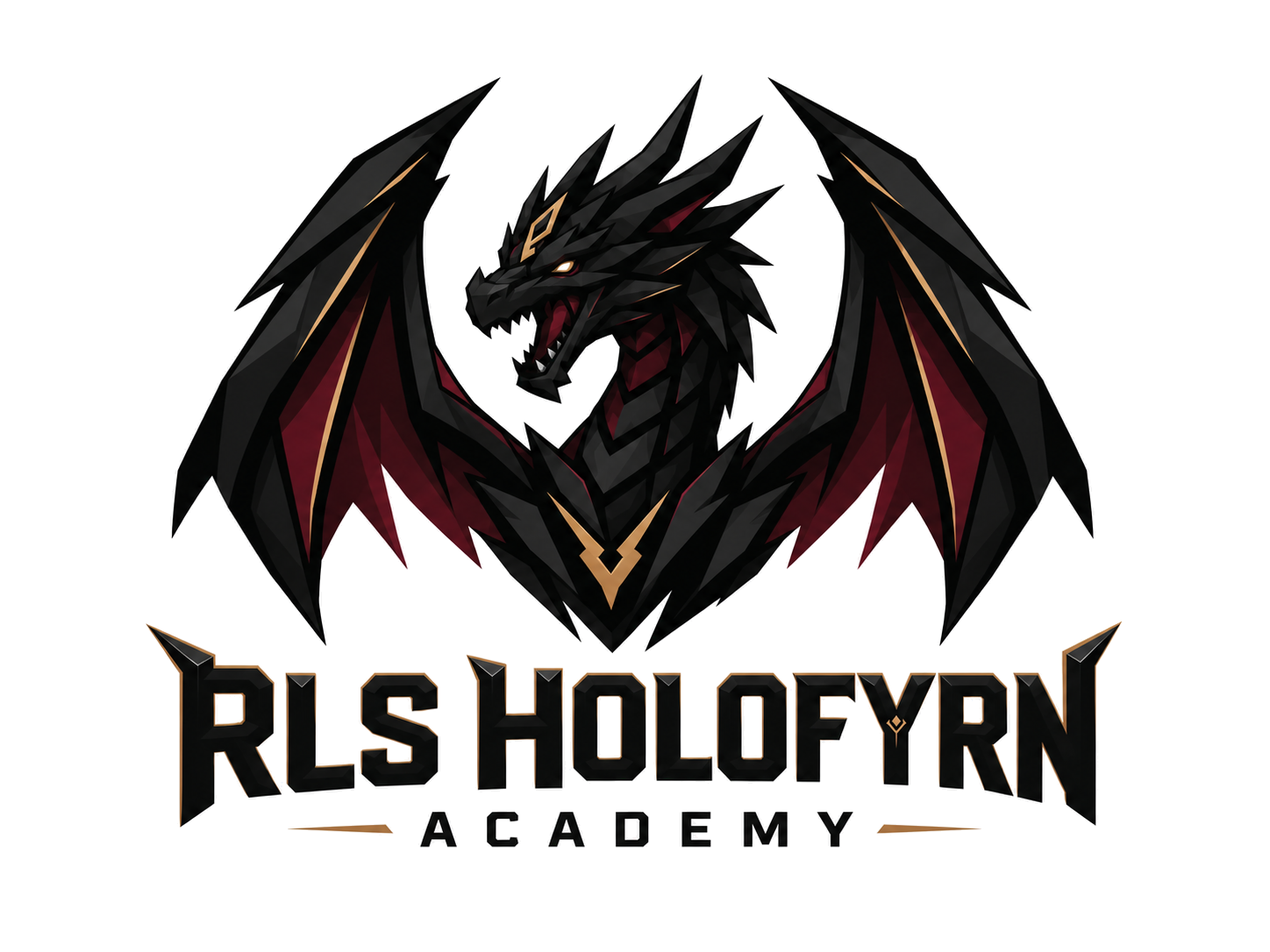
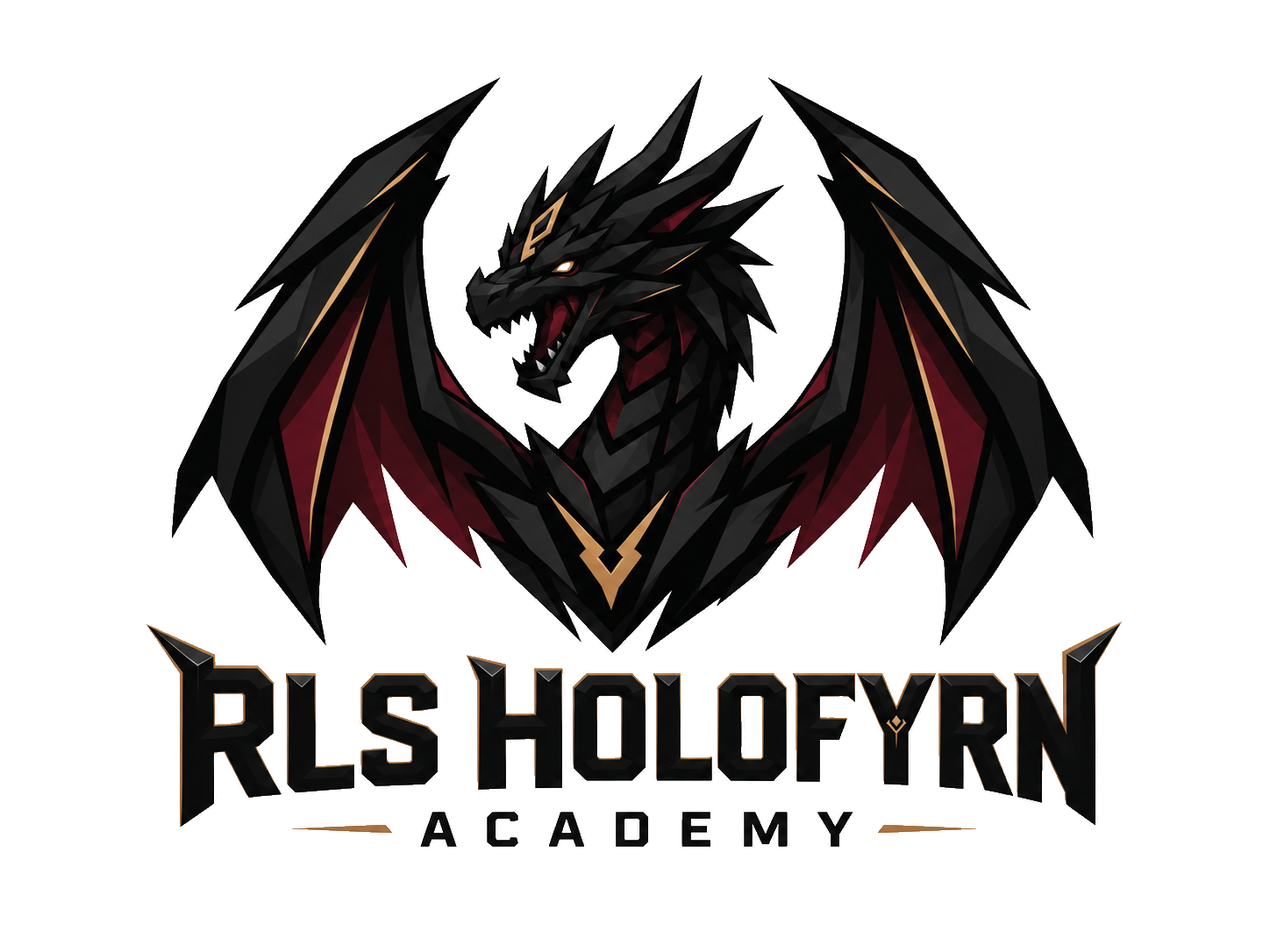
HoloMain16

diff --git a/index.html b/index.html
@@ -2107,23 +2107,26 @@
           <span aria-hidden="true">↗</span></a>
       </div>
       <div class="team-grid"><a class="team-card" style="--team-accent:#e91d39" href="#/teams/holofyrn-esport/">
-          <div class="team-card-center"><img src="assets/HolofyrnMain-transparent.png" alt="" loading="lazy"></div>
+          <div class="team-card-center"><img src="assets/HolofyrnMain-transparent.png?v=20260930-clean" alt="" loading="lazy"></div>
           <h3>HoloFyrn Esports</h3>
         </a><a class="team-card" style="--team-accent:#bd8855" href="#/teams/holofyrn-academy/">
-          <div class="team-card-center"><img src="assets/HolofyrnAcademy-transparent.png" alt="" loading="lazy"></div>
+          <div class="team-card-center"><img src="assets/HolofyrnAcademy-transparent.png?v=20260930-clean" alt="" loading="lazy"></div>
           <h3>HoloFyrn Academy</h3>
         </a><a class="team-card" style="--team-accent:#a71d3c" href="#/teams/rls-holofyrn-esport/">
-          <div class="team-card-center"><img src="assets/RLSHolofyrnMain-transparent.png" alt="" loading="lazy"></div>
+          <div class="team-card-center"><img src="assets/RLSHolofyrnMain-transparent.png?v=20260930-clean" alt="" loading="lazy"></div>
           <h3>RLS HoloFyrn Esports</h3>
         </a><a class="team-card" style="--team-accent:#c29a60" href="#/teams/rls-holofyrn-academy/">
-          <div class="team-card-center"><img src="assets/RLSHoloFyrnAcademy-transparent.png" alt="" loading="lazy"></div>
+          <div class="team-card-center"><img src="assets/RLSHoloFyrnAcademy-transparent.png?v=20260930-clean" alt="" loading="lazy"></div>
           <h3>RLS HoloFyrn Academy</h3>
         </a><a class="team-card" style="--team-accent:#fa7116" href="#/teams/rls-holofyrn-elet/">
-          <div class="team-card-center"><img src="assets/RLSHolofyrnEldr-transparent.png" alt="" loading="lazy"></div>
+          <div class="team-card-center"><img src="assets/RLSHolofyrnEldr-transparent.png?v=20260930-eldr" alt="" loading="lazy"></div>
           <h3>RLS HoloFyrn Eldr</h3>
         </a><a class="team-card" style="--team-accent:#929ba5" href="#/teams/holofyrn-shadows/">
-          <div class="team-card-center"><img src="assets/HoloFyrnShadows-transparent.png" alt="" loading="lazy"></div>
+          <div class="team-card-center"><img src="assets/HoloFyrnShadows-transparent.png?v=20260930-clean" alt="" loading="lazy"></div>
           <h3>HoloFyrn Shadows</h3>
+        </a><a class="team-card" style="--team-accent:#e91d39" href="#/teams/holofyrn-vanguards/">
+          <div class="team-card-center"><img src="assets/HoloFyrnVanguards-transparent.png?v=20260930-clean" alt="" loading="lazy"></div>
+          <h3>Holofyrn Vanguards</h3>
         </a></div>
     </section>
     <section class="section featured-section">
@@ -2178,7 +2181,7 @@
               HoloFyrn</span> <span aria-hidden="true">↗</span></a>
         </div>
         <div class="stats">
-          <div><b>6</b><span><span data-en="TEAMS" data-hu="CSAPAT">TEAMS</span></span></div>
+          <div><b>7</b><span><span data-en="TEAMS" data-hu="CSAPAT">TEAMS</span></span></div>
           <div><b>5</b><span><span data-en="NATIONS REPRESENTING OUR ORG" data-hu="AZ EGYESÜLETBEN KÉPVISELT NEMZETEK">NATIONS REPRESENTING OUR ORG</span></span></div>
           <div><b>4</b><span><span data-en="TOURNAMENTS AND LEAGUES PARTICIPATED IN" data-hu="VERSENYEK ÉS LIGÁK, AMELYEKBEN RÉSZT VETTÜNK">TOURNAMENTS AND LEAGUES PARTICIPATED IN</span></span></div>
         </div>
@@ -2259,8 +2262,8 @@
       <div class="eyebrow"><i></i><span data-en="HOLOFYRN / ABOUT HOLOFYRN" data-hu="HOLOFYRN / A HOLOFYRNRŐL">HOLOFYRN
           / ABOUT HOLOFYRN</span></div>
       <h1><span data-en="About HoloFyrn" data-hu="A HoloFyrnről">About HoloFyrn</span></h1>
-      <p><span data-en="One identity. Six teams. A shared drive to improve."
-          data-hu="Egy identitás. Hat csapat. Közös vágy a fejlődésre.">One identity. Six teams. A shared drive to
+      <p><span data-en="One identity. Seven teams. A shared drive to improve."
+          data-hu="Egy identitás. H?t csapat. Közös vágy a fejlődésre.">One identity. Seven teams. A shared drive to
           improve.</span></p>
     </div>
     <section class="section container page-section about-story">
@@ -2407,23 +2410,26 @@
           <span aria-hidden="true">↗</span></a>
       </div>
       <div class="team-grid"><a class="team-card" style="--team-accent:#e91d39" href="#/teams/holofyrn-esport/">
-          <div class="team-card-center"><img src="assets/HolofyrnMain-transparent.png" alt="" loading="lazy"></div>
+          <div class="team-card-center"><img src="assets/HolofyrnMain-transparent.png?v=20260930-clean" alt="" loading="lazy"></div>
           <h3>HoloFyrn Esports</h3>
         </a><a class="team-card" style="--team-accent:#bd8855" href="#/teams/holofyrn-academy/">
-          <div class="team-card-center"><img src="assets/HolofyrnAcademy-transparent.png" alt="" loading="lazy"></div>
+          <div class="team-card-center"><img src="assets/HolofyrnAcademy-transparent.png?v=20260930-clean" alt="" loading="lazy"></div>
           <h3>HoloFyrn Academy</h3>
         </a><a class="team-card" style="--team-accent:#a71d3c" href="#/teams/rls-holofyrn-esport/">
-          <div class="team-card-center"><img src="assets/RLSHolofyrnMain-transparent.png" alt="" loading="lazy"></div>
+          <div class="team-card-center"><img src="assets/RLSHolofyrnMain-transparent.png?v=20260930-clean" alt="" loading="lazy"></div>
           <h3>RLS HoloFyrn Esports</h3>
         </a><a class="team-card" style="--team-accent:#c29a60" href="#/teams/rls-holofyrn-academy/">
-          <div class="team-card-center"><img src="assets/RLSHoloFyrnAcademy-transparent.png" alt="" loading="lazy"></div>
+          <div class="team-card-center"><img src="assets/RLSHoloFyrnAcademy-transparent.png?v=20260930-clean" alt="" loading="lazy"></div>
           <h3>RLS HoloFyrn Academy</h3>
         </a><a class="team-card" style="--team-accent:#fa7116" href="#/teams/rls-holofyrn-elet/">
-          <div class="team-card-center"><img src="assets/RLSHolofyrnEldr-transparent.png" alt="" loading="lazy"></div>
+          <div class="team-card-center"><img src="assets/RLSHolofyrnEldr-transparent.png?v=20260930-eldr" alt="" loading="lazy"></div>
           <h3>RLS HoloFyrn Eldr</h3>
         </a><a class="team-card" style="--team-accent:#929ba5" href="#/teams/holofyrn-shadows/">
-          <div class="team-card-center"><img src="assets/HoloFyrnShadows-transparent.png" alt="" loading="lazy"></div>
+          <div class="team-card-center"><img src="assets/HoloFyrnShadows-transparent.png?v=20260930-clean" alt="" loading="lazy"></div>
           <h3>HoloFyrn Shadows</h3>
+        </a><a class="team-card" style="--team-accent:#e91d39" href="#/teams/holofyrn-vanguards/">
+          <div class="team-card-center"><img src="assets/HoloFyrnVanguards-transparent.png?v=20260930-clean" alt="" loading="lazy"></div>
+          <h3>Holofyrn Vanguards</h3>
         </a></div>
     </section>
     <section class="section featured-section">
@@ -2478,7 +2484,7 @@
               HoloFyrn</span> <span aria-hidden="true">↗</span></a>
         </div>
         <div class="stats">
-          <div><b>6</b><span><span data-en="TEAMS" data-hu="CSAPAT">TEAMS</span></span></div>
+          <div><b>7</b><span><span data-en="TEAMS" data-hu="CSAPAT">TEAMS</span></span></div>
           <div><b>5</b><span><span data-en="NATIONS REPRESENTING OUR ORG" data-hu="AZ EGYESÜLETBEN KÉPVISELT NEMZETEK">NATIONS REPRESENTING OUR ORG</span></span></div>
           <div><b>4</b><span><span data-en="TOURNAMENTS AND LEAGUES PARTICIPATED IN" data-hu="VERSENYEK ÉS LIGÁK, AMELYEKBEN RÉSZT VETTÜNK">TOURNAMENTS AND LEAGUES PARTICIPATED IN</span></span></div>
         </div>
@@ -2576,7 +2582,7 @@
           <div class="news-body"><span class="pill">ROCKET LEAGUE</span>
             <h3><span data-en="Discover our Rocket League teams"
                 data-hu="Ismerd meg Rocket League csapatainkat">Discover our Rocket League teams</span></h3>
-            <p><span data-en="Six lineups, one shared home." data-hu="Hat csapat, egy közös otthon.">Six lineups, one
+            <p><span data-en="Seven lineups, one shared home." data-hu="H?t csapat, egy közös otthon.">Seven lineups, one
                 shared home.</span></p><span class="card-action"><span data-en="Explore"
                 data-hu="Megtekintés">Explore</span> ↗</span>
           </div>
@@ -2742,7 +2748,7 @@
       <div class="breadcrumbs"><a href="#/staff/"><span data-en="Staff"
             data-hu="Stáb">Staff</span></a><span>/</span>Kenz</div>
       <div class="profile-grid">
-        <div class="profile-photo staff-profile-photo signed-profile-photo"><img src="assets/Kenz.png" alt="Kenz"><img class="profile-signature kenz-signature" src="assets/kenz-signature.png" alt="" aria-hidden="true">
+        <div class="profile-photo staff-profile-photo signed-profile-photo"><img src="assets/KenzStaff.jpg" alt="Kenz"><img class="profile-signature kenz-signature" src="assets/kenz-signature.png" alt="" aria-hidden="true">
         </div>
         <div class="profile-copy">
           <div class="eyebrow"><i></i><span data-en="STAFF PROFILE" data-hu="STÁBPROFIL">STAFF PROFILE</span></div>
@@ -2929,7 +2935,7 @@
     </div>
     <section class="section container page-section">
       <div class="staff-grid"><a class="staff-card" href="#/staff/kenz/"><span class="staff-number">01</span><img
-            class="staff-avatar staff-avatar-photo" src="assets/Kenz.png" alt="Kenz" loading="lazy">
+            class="staff-avatar staff-avatar-photo" src="assets/KenzStaff.jpg" alt="Kenz" loading="lazy">
           <h2>Kenz</h2>
           <p><span data-en="President" data-hu="Elnök">President</span> <span aria-hidden="true">↗</span></p>
         </a><a class="staff-card" href="#/staff/zemsta/"><span class="staff-number">02</span><img
@@ -3062,6 +3068,55 @@
       </div>
     </section>
   </template>
+  <template data-route="/teams/holofyrn-vanguards/" data-title="Holofyrn Vanguards | HoloFyrn Esport">
+    <section class="team-hero">
+      <div class="container">
+        <div class="breadcrumbs"><a href="#/teams/"><span data-en="Teams"
+              data-hu="Csapatok">Teams</span></a><span>/</span>Holofyrn Vanguards</div>
+        <div class="team-hero-content">
+          <div class="eyebrow"><i></i><span data-en="ROCKET LEAGUE" data-hu="ROCKET LEAGUE">ROCKET LEAGUE</span></div>
+          <h1>Holofyrn Vanguards</h1>
+          <p><span data-en="Vanguards roster" data-hu="Vanguards csapat">Vanguards roster</span> · HoloFyrn Esport
+          </p>
+        </div>
+      </div>
+    </section>
+    <section class="section container page-section">
+      <div class="section-heading">
+        <div>
+          <div class="eyebrow"><i></i><span data-en="THE LINEUP" data-hu="A JÁTÉKOSKERET">THE LINEUP</span></div>
+          <h2><span data-en="Players" data-hu="Játékosok">Players</span></h2>
+        </div>
+      </div>
+      <div class="players-grid">
+        <div class="empty-panel"><span>HF / 07</span>
+          <h3><span data-en="Roster announcement coming soon" data-hu="A játékoskeretet hamarosan bejelentjük">Roster
+              announcement coming soon</span></h3>
+          <p><span data-en="Player profiles will appear here once confirmed."
+              data-hu="A játékosprofilok a megerősítés után kerülnek ide.">Player profiles will appear here once
+              confirmed.</span></p>
+        </div>
+      </div>
+    </section>
+    <section class="section container compact-section">
+      <div class="two-column">
+        <div class="info-panel">
+          <div class="eyebrow"><i></i><span data-en="RESULTS" data-hu="EREDMÉNYEK">RESULTS</span></div>
+          <h2><span data-en="Recent results" data-hu="Legutóbbi eredmények">Recent results</span></h2>
+          <p><span data-en="Match results will appear here after the first confirmed fixtures."
+              data-hu="A megerősített mérkőzések eredményei itt lesznek láthatók.">Match results will appear here after
+              the first confirmed fixtures.</span></p>
+        </div>
+        <div class="info-panel">
+          <div class="eyebrow"><i></i><span data-en="ACHIEVEMENTS" data-hu="SIKEREK">ACHIEVEMENTS</span></div>
+          <h2><span data-en="Achievements" data-hu="Eredmények">Achievements</span></h2>
+          <p><span data-en="Tournament achievements will be added as they are confirmed."
+              data-hu="A megerősített versenyeredmények ide kerülnek.">Tournament achievements will be added as they are
+              confirmed.</span></p>
+        </div>
+      </div>
+    </section>
+  </template>
   <template data-route="/teams/holofyrn-esport/" data-title="HoloFyrn Esport | HoloFyrn Esport">
     <section class="team-hero">
       <div class="container">
@@ -3149,29 +3204,32 @@
       <div class="eyebrow"><i></i><span data-en="HOLOFYRN / OUR TEAMS" data-hu="HOLOFYRN / CSAPATAINK">HOLOFYRN / OUR
           TEAMS</span></div>
       <h1><span data-en="Our teams" data-hu="Csapataink">Our teams</span></h1>
-      <p><span data-en="Six teams united by one identity. Explore every HoloFyrn lineup."
-          data-hu="Hat csapat, egy közös identitás. Ismerd meg a HoloFyrn csapatait.">Six teams united by one identity.
+      <p><span data-en="Seven teams united by one identity. Explore every HoloFyrn lineup."
+          data-hu="H?t csapat, egy közös identitás. Ismerd meg a HoloFyrn csapatait.">Seven teams united by one identity.
           Explore every HoloFyrn lineup.</span></p>
     </div>
     <section class="section container page-section">
       <div class="team-grid"><a class="team-card" style="--team-accent:#e91d39" href="#/teams/holofyrn-esport/">
-          <div class="team-card-center"><img src="assets/HolofyrnMain-transparent.png" alt="" loading="lazy"></div>
+          <div class="team-card-center"><img src="assets/HolofyrnMain-transparent.png?v=20260930-clean" alt="" loading="lazy"></div>
           <h3>HoloFyrn Esport</h3>
         </a><a class="team-card" style="--team-accent:#bd8855" href="#/teams/holofyrn-academy/">
-          <div class="team-card-center"><img src="assets/HolofyrnAcademy-transparent.png" alt="" loading="lazy"></div>
+          <div class="team-card-center"><img src="assets/HolofyrnAcademy-transparent.png?v=20260930-clean" alt="" loading="lazy"></div>
           <h3>HoloFyrn Academy</h3>
         </a><a class="team-card" style="--team-accent:#a71d3c" href="#/teams/rls-holofyrn-esport/">
-          <div class="team-card-center"><img src="assets/RLSHolofyrnMain-transparent.png" alt="" loading="lazy"></div>
+          <div class="team-card-center"><img src="assets/RLSHolofyrnMain-transparent.png?v=20260930-clean" alt="" loading="lazy"></div>
           <h3>RLS HoloFyrn Esport</h3>
         </a><a class="team-card" style="--team-accent:#c29a60" href="#/teams/rls-holofyrn-academy/">
-          <div class="team-card-center"><img src="assets/RLSHoloFyrnAcademy-transparent.png" alt="" loading="lazy"></div>
+          <div class="team-card-center"><img src="assets/RLSHoloFyrnAcademy-transparent.png?v=20260930-clean" alt="" loading="lazy"></div>
           <h3>RLS HoloFyrn Academy</h3>
         </a><a class="team-card" style="--team-accent:#fa7116" href="#/teams/rls-holofyrn-elet/">
-          <div class="team-card-center"><img src="assets/RLSHolofyrnEldr-transparent.png" alt="" loading="lazy"></div>
+          <div class="team-card-center"><img src="assets/RLSHolofyrnEldr-transparent.png?v=20260930-eldr" alt="" loading="lazy"></div>
           <h3>RLS HoloFyrn Eldr</h3>
         </a><a class="team-card" style="--team-accent:#929ba5" href="#/teams/holofyrn-shadows/">
-          <div class="team-card-center"><img src="assets/HoloFyrnShadows-transparent.png" alt="" loading="lazy"></div>
+          <div class="team-card-center"><img src="assets/HoloFyrnShadows-transparent.png?v=20260930-clean" alt="" loading="lazy"></div>
           <h3>HoloFyrn Shadows</h3>
+        </a><a class="team-card" style="--team-accent:#e91d39" href="#/teams/holofyrn-vanguards/">
+          <div class="team-card-center"><img src="assets/HoloFyrnVanguards-transparent.png?v=20260930-clean" alt="" loading="lazy"></div>
+          <h3>Holofyrn Vanguards</h3>
         </a></div>
     </section>
   </template>
@@ -3879,6 +3937,20 @@
       }
     }
 
+    /* Fit the supplied decorative frames to the complete team card. */
+    .team-card[href="#/teams/holofyrn-esport/"] { --team-background: url('assets/HolofyrnMainBG.png'); }
+    .team-card[href="#/teams/holofyrn-academy/"] { --team-background: url('assets/HoloFyrnAcademyBG.png'); }
+    .team-card[href="#/teams/rls-holofyrn-esport/"] { --team-background: url('assets/RLSHoloFyrnMainBG.png'); }
+    .team-card[href="#/teams/rls-holofyrn-academy/"] { --team-background: url('assets/RLSHolofyrnacademyBG.png'); }
+    .team-card[href="#/teams/rls-holofyrn-elet/"] { --team-background: url('assets/RLSHoloFyrnEldBG.png'); }
+    .team-card[href="#/teams/holofyrn-shadows/"] { --team-background: url('assets/HolofyrnShadowsBG.png'); }
+    .team-card {
+      background-image: var(--team-background, linear-gradient(140deg, #212020, #121212 68%));
+      background-position: center;
+      background-size: 100% 100%;
+      background-repeat: no-repeat;
+    }
+
     /* Four narrow moving strips keep the animation on the card border only. */
     .team-card {
       position: relative; isolation: isolate;
@@ -3915,7 +3987,7 @@
     .team-card-center img {
       width: min(100%, 340px); height: 240px; object-fit: contain;
       mix-blend-mode: normal;
-      filter: drop-shadow(0 0 2px rgba(255,255,255,.9)) drop-shadow(0 0 8px rgba(255,255,255,.55));
+      filter: none;
     }
     .team-card h3 { margin: 0; font-size: clamp(1.65rem, 2.3vw, 2.15rem); }
     /* Give uncovered content its own subtle backdrop instead of fixing one image to the viewport. */
@@ -3935,7 +4007,7 @@
       pointer-events: none;
     }
     #main > :is(.section.container, .player-profile.container)::before {
-      background: linear-gradient(rgba(3, 3, 3, .7), rgba(3, 3, 3, .7)), url('assets/site-background.png') center / cover no-repeat;
+      background: linear-gradient(rgba(3, 3, 3, .7), rgba(3, 3, 3, .7)), url('assets/site-background.png?v=20260930-hires') center / cover no-repeat;
     }
     #main > .page-intro.container::before { background: rgba(0, 0, 0, .8); }
     @media (max-width: 700px) {
@@ -4041,7 +4113,7 @@
       route();
     })();
   </script>
-  <script type="module" src="public-data-v3.js?v=20260928-roster-order"></script>
+  <script type="module" src="public-data-v3.js?v=20260930-order"></script>
 </body>
 
 </html>

diff --git a/holofyrnmanager/concept.js b/holofyrnmanager/concept.js
@@ -146,7 +146,7 @@ function bindCoaching(){
     }catch(e){console.error('Coaching note failed',e);error.textContent='The note could not be saved. Check the team assignment and Firestore rules.';button.disabled=false;}
   });
 }
-function roster(){const members=playersForTeam(),list=members.filter(p=>!isRosterCoach(p)),coaches=members.filter(isRosterCoach);return appShell(`<div class="page-head"><div><div class="eyebrow">Team</div><h1 class="page-title small">Roster</h1><p class="page-sub">Manage players and link every player to a web account.</p></div><button class="btn primary" id="add-player">+ Add player</button></div><div class="kpis"><div class="card kpi"><div class="label">Players</div><div class="value">${list.length}</div></div><div class="card kpi"><div class="label">Avg 1s peak</div><div class="value">${avg(list.map(p=>p.m1))||'—'}</div></div><div class="card kpi"><div class="label">Avg 2s peak</div><div class="value">${avg(list.map(p=>p.m2))||'—'}</div></div><div class="card kpi"><div class="label">Avg 3s peak</div><div class="value">${avg(list.map(p=>p.m3))||'—'}</div></div></div><div class="roster-grid">${renderRosterCards(list)}</div>${coaches.length?`<section class="coach-section"><h2>Coaches</h2><div class="roster-grid coach-list">${coaches.map(renderCoachCard).join('')}</div></section>`:''}`);}
+function roster(){const members=model.sortedRoster(playersForTeam(),state.activeTeam),list=members.filter(p=>!isRosterCoach(p)),coaches=members.filter(isRosterCoach);return appShell(`<div class="page-head"><div><div class="eyebrow">Team</div><h1 class="page-title small">Roster</h1><p class="page-sub">Manage players and link every player to a web account.</p></div><div class="card-actions">${isAdmin()?`<button class="btn" id="reorder-roster" ${list.length<2?'disabled':''}>Reorder players</button>`:''}<button class="btn primary" id="add-player">+ Add player</button></div></div><div class="kpis"><div class="card kpi"><div class="label">Players</div><div class="value">${list.length}</div></div><div class="card kpi"><div class="label">Avg 1s peak</div><div class="value">${avg(list.map(p=>p.m1))||'—'}</div></div><div class="card kpi"><div class="label">Avg 2s peak</div><div class="value">${avg(list.map(p=>p.m2))||'—'}</div></div><div class="card kpi"><div class="label">Avg 3s peak</div><div class="value">${avg(list.map(p=>p.m3))||'—'}</div></div></div><div class="roster-grid">${renderRosterCards(list)}</div>${coaches.length?`<section class="coach-section"><h2>Coaches</h2><div class="roster-grid coach-list">${coaches.map(renderCoachCard).join('')}</div></section>`:''}`);}
 function rosterAvatar(p){return avatarMarkup(linkedUserForPlayer(p.id)||{displayName:p.name,initials:initials(p.name)},'roster-avatar');}
 function renderCoachCard(p){return `<div class="card card-pad coach-row"><div class="roster-identity">${rosterAvatar(p)}<div class="roster-identity-text"><button class="player-name person-link" data-player-view="${esc(p.id)}">${esc(p.name)}</button><div class="player-meta">Coach</div></div></div><div class="coach-discord"><b>Discord:</b> ${esc(p.discord||'—')}</div><div class="card-actions"><button class="btn small" data-player-view="${esc(p.id)}">View profile</button><button class="btn small" data-player-edit="${esc(p.id)}">Edit</button><button class="btn small danger" data-player-delete="${esc(p.id)}">Delete</button></div></div>`;}
 function renderRosterCards(list){
@@ -342,7 +342,7 @@ function bindCommon(){
   document.addEventListener('click',e=>{if(teamMenu&&!teamMenu.contains(e.target)&&!teamBtn?.contains(e.target))teamMenu.classList.remove('open');if(userMenu&&!userMenu.contains(e.target)&&!switchBtn?.contains(e.target))userMenu.classList.remove('open');if(panel&&!panel.contains(e.target)&&!bell?.contains(e.target))panel.classList.remove('open');},{once:true});
 }
 function bindView(){if(state.view==='roster')bindRoster();if(state.view==='availability')bindAvailability();if(state.view==='coaching')bindCoaching();if(state.view==='results')bindResults();if(state.view==='league')bindLeague();if(state.view==='calendar')bindCalendar();if(state.view==='admin')bindAdmin();}
-function bindRoster(){document.getElementById('add-player')?.addEventListener('click',()=>playerModal());document.querySelectorAll('[data-player-edit]').forEach(b=>b.onclick=()=>playerModal(playerById(b.dataset.playerEdit)));document.querySelectorAll('[data-player-view]').forEach(b=>b.onclick=()=>viewPlayer(playerById(b.dataset.playerView)));document.querySelectorAll('[data-player-delete]').forEach(b=>b.onclick=()=>confirmModal('Delete player?','The linked account will remain but the player link will be cleared.',()=>{const p=playerById(b.dataset.playerDelete);if(p?.accountId){const u=userById(p.accountId);if(u)u.linkedPlayerId=null;}state.players=state.players.filter(p=>p.id!=b.dataset.playerDelete);save();render();}));}
+function bindRoster(){document.getElementById('reorder-roster')?.addEventListener('click',reorderRosterModal);document.getElementById('add-player')?.addEventListener('click',()=>playerModal());document.querySelectorAll('[data-player-edit]').forEach(b=>b.onclick=()=>playerModal(playerById(b.dataset.playerEdit)));document.querySelectorAll('[data-player-view]').forEach(b=>b.onclick=()=>viewPlayer(playerById(b.dataset.playerView)));document.querySelectorAll('[data-player-delete]').forEach(b=>b.onclick=()=>confirmModal('Delete player?','The linked account will remain but the player link will be cleared.',()=>{const p=playerById(b.dataset.playerDelete);if(p?.accountId){const u=userById(p.accountId);if(u)u.linkedPlayerId=null;}state.players=state.players.filter(p=>p.id!=b.dataset.playerDelete);save();render();}));}
 function bindAvailability(){document.getElementById('save-availability')?.addEventListener('click',()=>{const playerId=value('a-player'),date=value('a-date'),from=value('a-from'),until=value('a-until');if(!playerId||!date||from>=until){toast('Invalid availability','Check player, date and time range.');return;}state.availability.push({id:crypto.randomUUID(),playerId,date,from,until});save();render();toast('Saving availability',`${from}–${until}`);});document.querySelectorAll('[data-avail-edit]').forEach(b=>b.onclick=()=>availabilityModal(state.availability.find(a=>a.id==b.dataset.availEdit)));document.querySelectorAll('[data-avail-delete]').forEach(b=>b.onclick=()=>confirmModal('Delete availability?','Remove this time window only.',()=>{state.availability=state.availability.filter(a=>a.id!=b.dataset.availDelete);save();render();}));}
 function bindResults(){document.querySelectorAll('[data-result-tab]').forEach(b=>b.onclick=()=>{state.resultTab=b.dataset.resultTab;save();render();});document.getElementById('add-result')?.addEventListener('click',()=>resultModal());document.querySelectorAll('[data-result-edit]').forEach(b=>b.onclick=()=>resultModal(state.results.find(r=>r.id==b.dataset.resultEdit)));document.querySelectorAll('[data-result-delete]').forEach(b=>b.onclick=()=>confirmModal('Delete result?','Remove this result from the database.',()=>{state.results=state.results.filter(r=>r.id!=b.dataset.resultDelete);save();render();}));}
 
@@ -544,3 +544,29 @@ function prepareMobileAgenda(){
 function render(){if(!currentUser())return;ensureAccess();const views={overview,roster,availability,coaching,results,league,calendar,admin};document.getElementById('app').innerHTML=(views[state.view]||overview)();prepareResponsiveTables();prepareMobileAgenda();bindCommon();bindView();updateSyncStatus();}
 startManager();
 
+
+function reorderRosterModal(){
+  if(!isAdmin())return;
+  const team=state.activeTeam;
+  const members=model.sortedRoster(playersForTeam(team),team);
+  const draft=members.filter(p=>!isRosterCoach(p));
+  const coaches=members.filter(isRosterCoach);
+  let selected=null;
+  openModal('Reorder players', '<p>Select two players to swap their positions. Save to update this team on the main site.</p><div id="roster-order-list" class="roster-order-list"></div><p id="roster-order-status" role="status" aria-live="polite"></p>',()=>{
+    if(!isAdmin())return;
+    [...draft,...coaches].forEach((p,index)=>{const current=playerById(p.id);if(current)current.rosterOrder={...current.rosterOrder,[team]:index};});
+    const saving=save();
+    if(saving===false)return;
+    closeModal();render();
+  },'Save order');
+  function draw(){
+    document.getElementById('roster-order-list').innerHTML=draft.map((p,index)=>`<button type="button" class="btn" data-order-index="${index}" aria-pressed="${selected===index}"><span>${index+1}.</span> ${esc(p.name)}</button>`).join('');
+    document.querySelectorAll('[data-order-index]').forEach(button=>button.onclick=()=>{
+      const index=Number(button.dataset.orderIndex);
+      if(selected===null){selected=index;draw();return;}
+      if(selected!==index){[draft[selected],draft[index]]=[draft[index],draft[selected]];document.getElementById('roster-order-status').textContent='Positions swapped. Save order to apply.';}
+      selected=null;draw();
+    });
+  }
+  draw();
+}

diff --git a/public-data-v3.js b/public-data-v3.js
@@ -1,5 +1,5 @@
 import {matchesForNextDay, todayInBudapest} from './public-matches.mjs';
-import {rosterRole, sortedRoster} from './public-roster.mjs';
+import {rosterRole, sortedRoster} from './public-roster.mjs?v=20260930-order';
 
 const teamRoutes = {
   '/teams/holofyrn-esport/': 'main',
@@ -8,12 +8,14 @@ const teamRoutes = {
   '/teams/rls-holofyrn-academy/': 'rls-academy',
   '/teams/rls-holofyrn-elet/': 'rls-eldr',
   '/teams/holofyrn-shadows/': 'shadows',
+  '/teams/holofyrn-vanguards/': 'vanguards',
 };
 const teamNames = {
   main: 'HoloFyrn Esport', academy: 'HoloFyrn Academy',
   rls: 'RLS HoloFyrn Esport', 'rls-academy': 'RLS HoloFyrn Academy',
   'rls-eldr': 'RLS HoloFyrn Élet',
   shadows: 'HoloFyrn Shadows',
+  vanguards: 'Holofyrn Vanguards',
 };
 const portraits = {kenz: 'Kenz.png', eggy: 'eggy.webp', interz: 'interz.webp'};
 let publicData = null;
@@ -206,13 +208,13 @@ function renderProfile(route, players) {
   document.title = `${player.name} | HoloFyrn Esport`;
 }
 
-function renderPlayers(grid, players) {
+function renderPlayers(grid, players, team) {
   if (!grid) return;
   if (!players.length) {
     grid.replaceChildren(emptyMessage(loadError ? 'Player data is temporarily unavailable.' : 'No players listed yet.', loadError ? 'A játékosadatok átmenetileg nem érhetők el.' : 'Még nincsenek játékosok feltüntetve.'));
     return;
   }
-  grid.replaceChildren(...sortedRoster(players).map(playerCard));
+  grid.replaceChildren(...sortedRoster(players, team).map(playerCard));
 }
 
 function renderUpcomingMatches(matches) {
@@ -289,14 +291,14 @@ function render() {
     return;
   }
   if (team) {
-    renderPlayers(document.querySelector('#main .players-grid'), players.filter(player => onTeam(player, team)));
+    renderPlayers(document.querySelector('#main .players-grid'), players.filter(player => onTeam(player, team)), team);
     const panels = document.querySelectorAll('#main .two-column .info-panel');
     if (panels.length >= 2) {
       panels[0].querySelector('p')?.replaceWith(resultList(results.filter(row => row.team === team), 'No results yet.', 'Még nincs eredmény.'));
       panels[1].querySelector('p')?.replaceWith(resultList(results.filter(row => row.team === team && row.type !== 'league'), 'No tournament results yet.', 'Még nincs versenyeredmény.'));
     }
   } else if (route === '/') {
-    renderPlayers(document.querySelector('#main .players-grid'), players.filter(player => onTeam(player, 'main')));
+    renderPlayers(document.querySelector('#main .players-grid'), players.filter(player => onTeam(player, 'main')), 'main');
   }
 }
 

diff --git a/holofyrnmanager/connected.js b/holofyrnmanager/connected.js
@@ -149,7 +149,7 @@ function showLogin(message=''){
 }
 async function startManager(){
   try{
-    const [data,publicData,{firebaseConfig},appApi,fire,authApi]=await Promise.all([import('./manager-data.mjs'),import('./public-data.mjs?v=20260928-matches'),import('./firebaseConfig.js'),import('https://www.gstatic.com/firebasejs/10.12.5/firebase-app.js'),import('https://www.gstatic.com/firebasejs/10.12.5/firebase-firestore.js'),import('https://www.gstatic.com/firebasejs/10.12.5/firebase-auth.js')]);
+    const [data,publicData,{firebaseConfig},appApi,fire,authApi]=await Promise.all([import('./manager-data.mjs?v=20260930-order'),import('./public-data.mjs?v=20260930-order'),import('./firebaseConfig.js'),import('https://www.gstatic.com/firebasejs/10.12.5/firebase-app.js'),import('https://www.gstatic.com/firebasejs/10.12.5/firebase-firestore.js'),import('https://www.gstatic.com/firebasejs/10.12.5/firebase-auth.js')]);
     model=data;publicModel=publicData;
     const app=appApi.initializeApp(firebaseConfig),db=fire.initializeFirestore(app,{experimentalAutoDetectLongPolling:true,useFetchStreams:false}),auth=authApi.getAuth(app);
     services={appApi,fire,authApi,db,auth,firebaseConfig,storeRef:fire.doc(db,'noctiqManager','main'),publicRef:fire.doc(db,'holofyrnPublic','main')};

diff --git a/holofyrnmanager/index.html b/holofyrnmanager/index.html
@@ -8,9 +8,9 @@
     <title>HoloFyrn Manager</title>
     <link rel="icon" href="assets/holofyrn-logo.png" />
     <link rel="stylesheet" href="concept.css" />
-    <link rel="stylesheet" href="connected.css?v=20260928-responsive" />
-    <script defer src="connected.js?v=20260928-matches"></script>
-    <script defer src="concept.js?v=20260928-roster-roles"></script>
+    <link rel="stylesheet" href="connected.css?v=20260930-order" />
+    <script defer src="connected.js?v=20260930-order"></script>
+    <script defer src="concept.js?v=20260930-order"></script>
   </head>
   <body>
     <div id="app">

diff --git a/holofyrnmanager/connected.css b/holofyrnmanager/connected.css
@@ -243,3 +243,5 @@ fieldset.field{border:0;padding:0;min-width:0}
  .table td:not([data-label])::before{display:none}
  .table td:last-child{border-bottom:0}
 }
+
+.roster-order-list{display:grid;gap:8px}.roster-order-list .btn{justify-content:flex-start;text-align:left}.roster-order-list .btn[aria-pressed="true"]{outline:2px solid var(--accent,#df3556);background:rgba(223,53,86,.18)}
